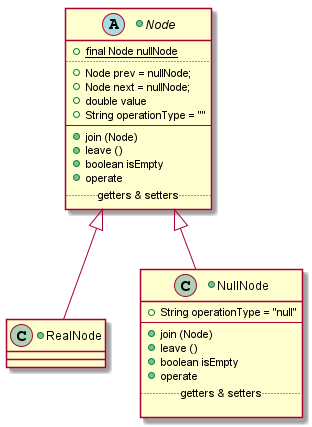
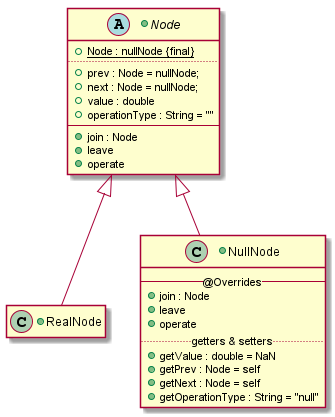
null object

Changed region(s): [[0.0, 0.0, 1.0, 0.9976]]

diff --git a/src/strategies/nullObject/implementation_01/Node.java b/src/strategies/nullObject/implementation_01/Node.java
@@ -7,8 +7,10 @@ public abstract class Node {
 	Node
 			prev = nullNode,
 			next = nullNode;
-	double value = Double.NaN;
-	String operationType = "";
+	double
+			value = Double.NaN;
+	String
+			operationType = "";
 
 	void join(Node host){
 		setPrev(host);
@@ -24,7 +26,7 @@ public abstract class Node {
 
 //	@formatter:off
 
-	boolean isEmpty(){ return prev==null & next == null; }
+//	boolean isEmpty(){ return prev==null & next == null; }
 
 	void operate(){ System.out.println(getOperationType().concat(Double.toString(getValue()))); }
 

diff --git a/src/strategies/nullObject/implementation_01/NullNode.java b/src/strategies/nullObject/implementation_01/NullNode.java
@@ -11,7 +11,7 @@ public class NullNode extends Node {
 	@Override void setValue(double value){ }
 	@Override void setOperationType(String operationType){ }
 
-	@Override boolean isEmpty(){return false;}
+//	@Override boolean isEmpty(){return false;}
 	@Override void setPrev(Node prev){ }
 	@Override void setNext(Node next){ }
 
